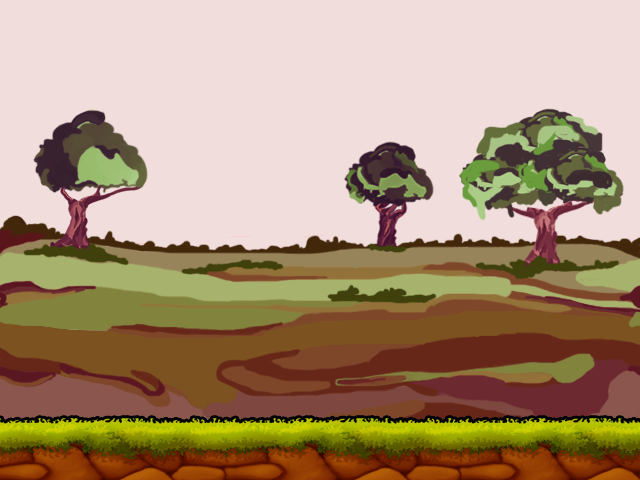
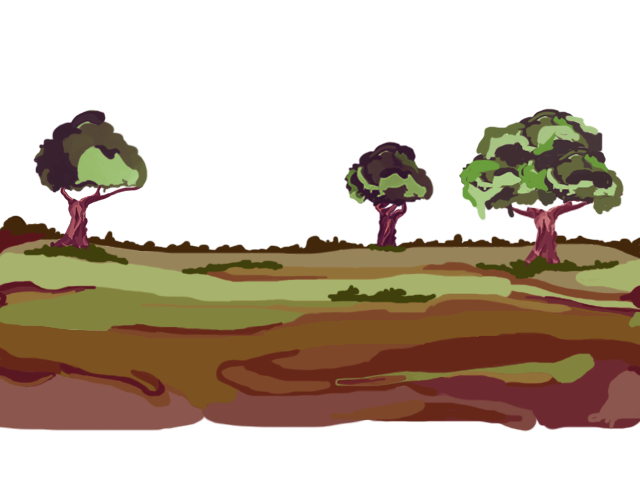
added some more drago features

diff --git a/src/com/bhop/game/environment/Sky.java b/src/com/bhop/game/environment/Sky.java
@@ -1,49 +1,30 @@
 package com.bhop.game.environment;
 
-import java.util.Calendar;
-
 import org.newdawn.slick.Image;
 import org.newdawn.slick.Input;
 import org.newdawn.slick.SlickException;
 
 import com.bhop.game.objects.GameObject;
+import com.bhop.game.util.GameUtils;
+import com.bhop.game.util.singleton.Singleton;
 
-public class Sky implements GameObject
+public class Sky implements Singleton, GameObject
 {
 	
 	private final Image image;
 	
-	public Sky() throws SlickException
+	private Sky() throws SlickException
 	{
-		image = getSkyImagePathAccordingToTimeOfDay();
+		image = GameUtils.getImageAccordingToTimePeriod("res/backgrounds_new/skies/");
 	}
-	
-	private static Image getSkyImagePathAccordingToTimeOfDay() throws SlickException
-	{
-		int hoursOfDay = Calendar.getInstance().get(Calendar.HOUR_OF_DAY);
-		
-		if (hoursOfDay > 5 && hoursOfDay < 12)
-		{
-			return new Image("res/backgrounds/dawn.png");
-		}
-		
-		if (hoursOfDay < 20)
-		{
-			return new Image("res/backgrounds/day.png");
-		}
-		
-		return new Image("res/backgrounds/night.png");
-	}
+
+	@Override
+	public void update(Input input) throws SlickException {}
 
 	@Override
 	public void render() throws SlickException
 	{
 		image.draw();
-	}
-
-	@Override
-	public void update(Input input) throws SlickException
-	{
 	}
 
 }

diff --git a/src/com/bhop/game/states/Play.java b/src/com/bhop/game/states/Play.java
@@ -10,9 +10,10 @@ import org.newdawn.slick.SlickException;
 import org.newdawn.slick.state.BasicGameState;
 import org.newdawn.slick.state.StateBasedGame;
 
-import com.bhop.game.environment.BackgroundGenerator;
-import com.bhop.game.environment.CloudGenerator;
 import com.bhop.game.environment.LightObject;
+import com.bhop.game.environment.Sky;
+import com.bhop.game.environment.background.BackgroundGenerator;
+import com.bhop.game.environment.cloud.CloudGenerator;
 import com.bhop.game.objects.GameObject;
 import com.bhop.game.objects.bunny.Bunny;
 import com.bhop.game.objects.ground.Ground;
@@ -30,9 +31,10 @@ public class Play extends BasicGameState
 	public void init(GameContainer container, StateBasedGame game) throws SlickException
 	{
 		gameObjects = new ArrayList<GameObject>();
-		gameObjects.add(getSingleton(BackgroundGenerator.class));
+		gameObjects.add(getSingleton(Sky.class));
 		gameObjects.add(getSingleton(LightObject.class));
 		gameObjects.add(getSingleton(CloudGenerator.class));
+		gameObjects.add(getSingleton(BackgroundGenerator.class));
 		gameObjects.add(getSingleton(Ground.class));
 		gameObjects.add(getSingleton(LogGenerator.class));
 		gameObjects.add(getSingleton(Bunny.class));

diff --git a/src/com/bhop/game/environment/cloud/CloudGenerator.java b/src/com/bhop/game/environment/cloud/CloudGenerator.java
@@ -1,0 +1,47 @@
+package com.bhop.game.environment.cloud;
+
+import static com.bhop.game.util.GameUtils.WINDOW_WIDTH;
+
+import org.newdawn.slick.SlickException;
+
+import com.bhop.game.util.generator.GeneratedObject;
+import com.bhop.game.util.generator.Generator;
+import com.bhop.game.util.singleton.Singleton;
+
+public class CloudGenerator extends Generator implements Singleton
+{
+	
+	private CloudGenerator() throws SlickException
+	{
+		super();
+	}
+	
+	protected void fillGeneratedObjects() throws SlickException
+	{
+		for (int i = 0; i < 6; i++)
+		{
+			generatedObjects.add(createGeneratedObject(-i * (WINDOW_WIDTH - 1)));
+		}
+	}
+	
+	@Override
+	protected GeneratedObject createGeneratedObject(float x) throws SlickException
+	{
+		float random = (float)(Math.random() + 0.3);
+		
+		x = x > -WINDOW_WIDTH ? x - WINDOW_WIDTH : x; 
+		
+		return new Cloud(x * random);
+	}
+	
+	@Override
+	protected void manageGeneratedObjects() throws SlickException
+	{
+		if (generatedObjects.get(0).getX() >= WINDOW_WIDTH * 3)
+		{
+			generatedObjects.remove(0);
+			generatedObjects.add(createGeneratedObject(generatedObjects.get(generatedObjects.size() - 1).getX() - (WINDOW_WIDTH - 1)));
+		}
+	}
+
+}

diff --git a/src/com/bhop/game/objects/bunny/BunnyPhysics.java b/src/com/bhop/game/objects/bunny/BunnyPhysics.java
@@ -7,7 +7,7 @@ class BunnyPhysics
 
 	private static final float BASE_FORCE = 8;
 
-	private static final float FORCE_INCREMENTATION = 0.75f;
+	private static final float FORCE_INCREMENTATION = 0.325f;
 	
 	void increaseGravityPullingForce()
 	{
@@ -16,7 +16,7 @@ class BunnyPhysics
 
 	void setGravityToJumping(float jumpHeight)
 	{
-		gravityForce = -(BASE_FORCE * jumpHeight * 1.2f);
+		gravityForce = -(BASE_FORCE * jumpHeight);
 	}
 
 	void resetGravityFallingBaseForce()
@@ -32,11 +32,11 @@ class BunnyPhysics
 	static class BunnyJump extends BunnyIsHitEventWatcher
 	{
 		
-		static final float MAX_JUMP_COEFFICIENT = 2.2f;
+		static final float MAX_JUMP_COEFFICIENT = 1.8f;
 
-		static final float MIN_JUMP_COEFFICIENT = 1.2f;
+		static final float MIN_JUMP_COEFFICIENT = 1.0f;
 
-		private static final float JUMP_COEFFICIENT_INCREMENT = 0.2f;
+		private static final float JUMP_COEFFICIENT_INCREMENT = 0.15f;
 
 		private static final float JUMP_COEFFICIENT_DECREMENT = 0.025f;
 

diff --git a/src/com/bhop/game/objects/bunny/CameraMovement.java b/src/com/bhop/game/objects/bunny/CameraMovement.java
@@ -6,13 +6,13 @@ import com.bhop.game.util.singleton.Singleton;
 public class CameraMovement extends BunnyIsHitEventWatcher implements Singleton
 {
 	
-	public static final float CAMERA_SPEED = 3.5f;
+	public static final float CAMERA_SPEED = 1.5f;
 
 	public static final float MAX_SPEED_FACTOR = 3.5f;
 
 	public static final float MIN_SPEED_FACTOR = 1;
 
-	private static final float SPEED_FACTOR_DECREMENT = 0.025f;
+	private static final float SPEED_FACTOR_DECREMENT = 0.01f;
 
 	private float speedFactor;
 
@@ -73,8 +73,8 @@ public class CameraMovement extends BunnyIsHitEventWatcher implements Singleton
 	public static enum RunSpeedBoost
 	{
 
-		MAX(1f),
-		AVERAGE(0.75f),
+		MAX(0.83f),
+		AVERAGE(0.625f),
 		MIN(0.5f);
 
 		private final float speedFactor;

diff --git a/src/com/bhop/game/environment/cloud/Cloud.java b/src/com/bhop/game/environment/cloud/Cloud.java
@@ -1,0 +1,34 @@
+package com.bhop.game.environment.cloud;
+
+import org.newdawn.slick.Color;
+import org.newdawn.slick.SlickException;
+
+import com.bhop.game.util.generator.GeneratedObject;
+
+class Cloud extends GeneratedObject
+{
+	
+	private final float y;
+
+	Cloud(float x) throws SlickException
+	{
+		super(x, "res/backgrounds_new/clouds/");
+		
+		y = (float) (Math.random() * 120);
+	}
+	
+	@Override
+	protected void update(float cameraSpeed)
+	{
+		cameraSpeed *= cameraSpeed > 0 ? -1 : 1;
+		
+		super.update(cameraSpeed * 200);
+	}
+	
+	@Override
+	protected void render() throws SlickException
+	{
+		image.draw(x, y, new Color(1, 1, 1, 0.6f));
+	}
+
+}

diff --git a/src/com/bhop/game/util/GameUtils.java b/src/com/bhop/game/util/GameUtils.java
@@ -17,7 +17,7 @@ public final class GameUtils
 
 	public static final String GAME_NAME = "BHop";
 	
-	public static final int FPS = 60;
+	public static final int FPS = 120;
 
 	public static Image[] createImageArrayFromDirectory(String directoryName) throws SlickException
 	{
@@ -48,18 +48,6 @@ public final class GameUtils
 		}
 		
 		return new Image(path + "night.png");
-		
-//		if (hoursOfDay > 5 && hoursOfDay < 12)
-//		{
-//			return new Image(path + "dawn.png");
-//		}
-//		
-//		if (hoursOfDay < 20)
-//		{
-//			return new Image(path + "day.png");
-//		}
-//		
-//		return new Image(path + "night.png");
 	}
 
 }

diff --git a/src/com/bhop/game/environment/background/BackgroundGenerator.java b/src/com/bhop/game/environment/background/BackgroundGenerator.java
@@ -1,0 +1,22 @@
+package com.bhop.game.environment.background;
+
+import org.newdawn.slick.SlickException;
+
+import com.bhop.game.util.generator.GeneratedObject;
+import com.bhop.game.util.generator.Generator;
+import com.bhop.game.util.singleton.Singleton;
+
+public class BackgroundGenerator extends Generator implements Singleton
+{
+	
+	private BackgroundGenerator() throws SlickException
+	{
+		fillGeneratedObjects();
+	}
+
+	protected GeneratedObject createGeneratedObject(float x) throws SlickException
+	{
+		return new Background(x);
+	}
+
+}

diff --git a/src/com/bhop/game/Game.java b/src/com/bhop/game/Game.java
@@ -35,6 +35,7 @@ public class Game extends StateBasedGame
 	{
         AppGameContainer appGameContainer = new AppGameContainer(new Game());
 		appGameContainer.setDisplayMode(WINDOW_WIDTH, WINDOW_HEIGHT, false);
+//		appGameContainer.setFullscreen(true);
 //		appGameContainer.setIcon("res/grass.png");
 		appGameContainer.setTargetFrameRate(FPS);
 //		appGameContainer.setVSync(true);

diff --git a/src/com/bhop/game/objects/bunny/BunnyAnimation.java b/src/com/bhop/game/objects/bunny/BunnyAnimation.java
@@ -112,15 +112,15 @@ class BunnyAnimation extends BunnyIsHitEventWatcher
 	{
 		if (speedFactor < ((MAX_SPEED_FACTOR - MIN_SPEED_FACTOR) / 3 * 1) + MIN_SPEED_FACTOR)
 		{
-			fps = 3;
+			fps = 6;
 		}
 		else if (speedFactor < ((MAX_SPEED_FACTOR - MIN_SPEED_FACTOR) / 3 * 2) + MIN_SPEED_FACTOR)
 		{
-			fps = 2;
+			fps = 5;
 		}
 		else
 		{
-			fps = 1;
+			fps = 4;
 		}
 	}
 	

diff --git a/src/com/bhop/game/environment/background/Background.java b/src/com/bhop/game/environment/background/Background.java
@@ -1,0 +1,15 @@
+package com.bhop.game.environment.background;
+
+import org.newdawn.slick.SlickException;
+
+import com.bhop.game.util.generator.GeneratedObject;
+
+public class Background extends GeneratedObject
+{
+	
+	Background(float x) throws SlickException
+	{
+		super(x, "res/backgrounds_new/");
+	}
+	
+}

diff --git a/src/com/bhop/game/objects/log/Log.java b/src/com/bhop/game/objects/log/Log.java
@@ -21,7 +21,7 @@ public class Log extends BasicGameObject
 	
 	private boolean isFalling;
 	
-	private float speed = 0.8f;
+	private float speed = 0.0f;
 
 	public Log() throws SlickException
 	{
